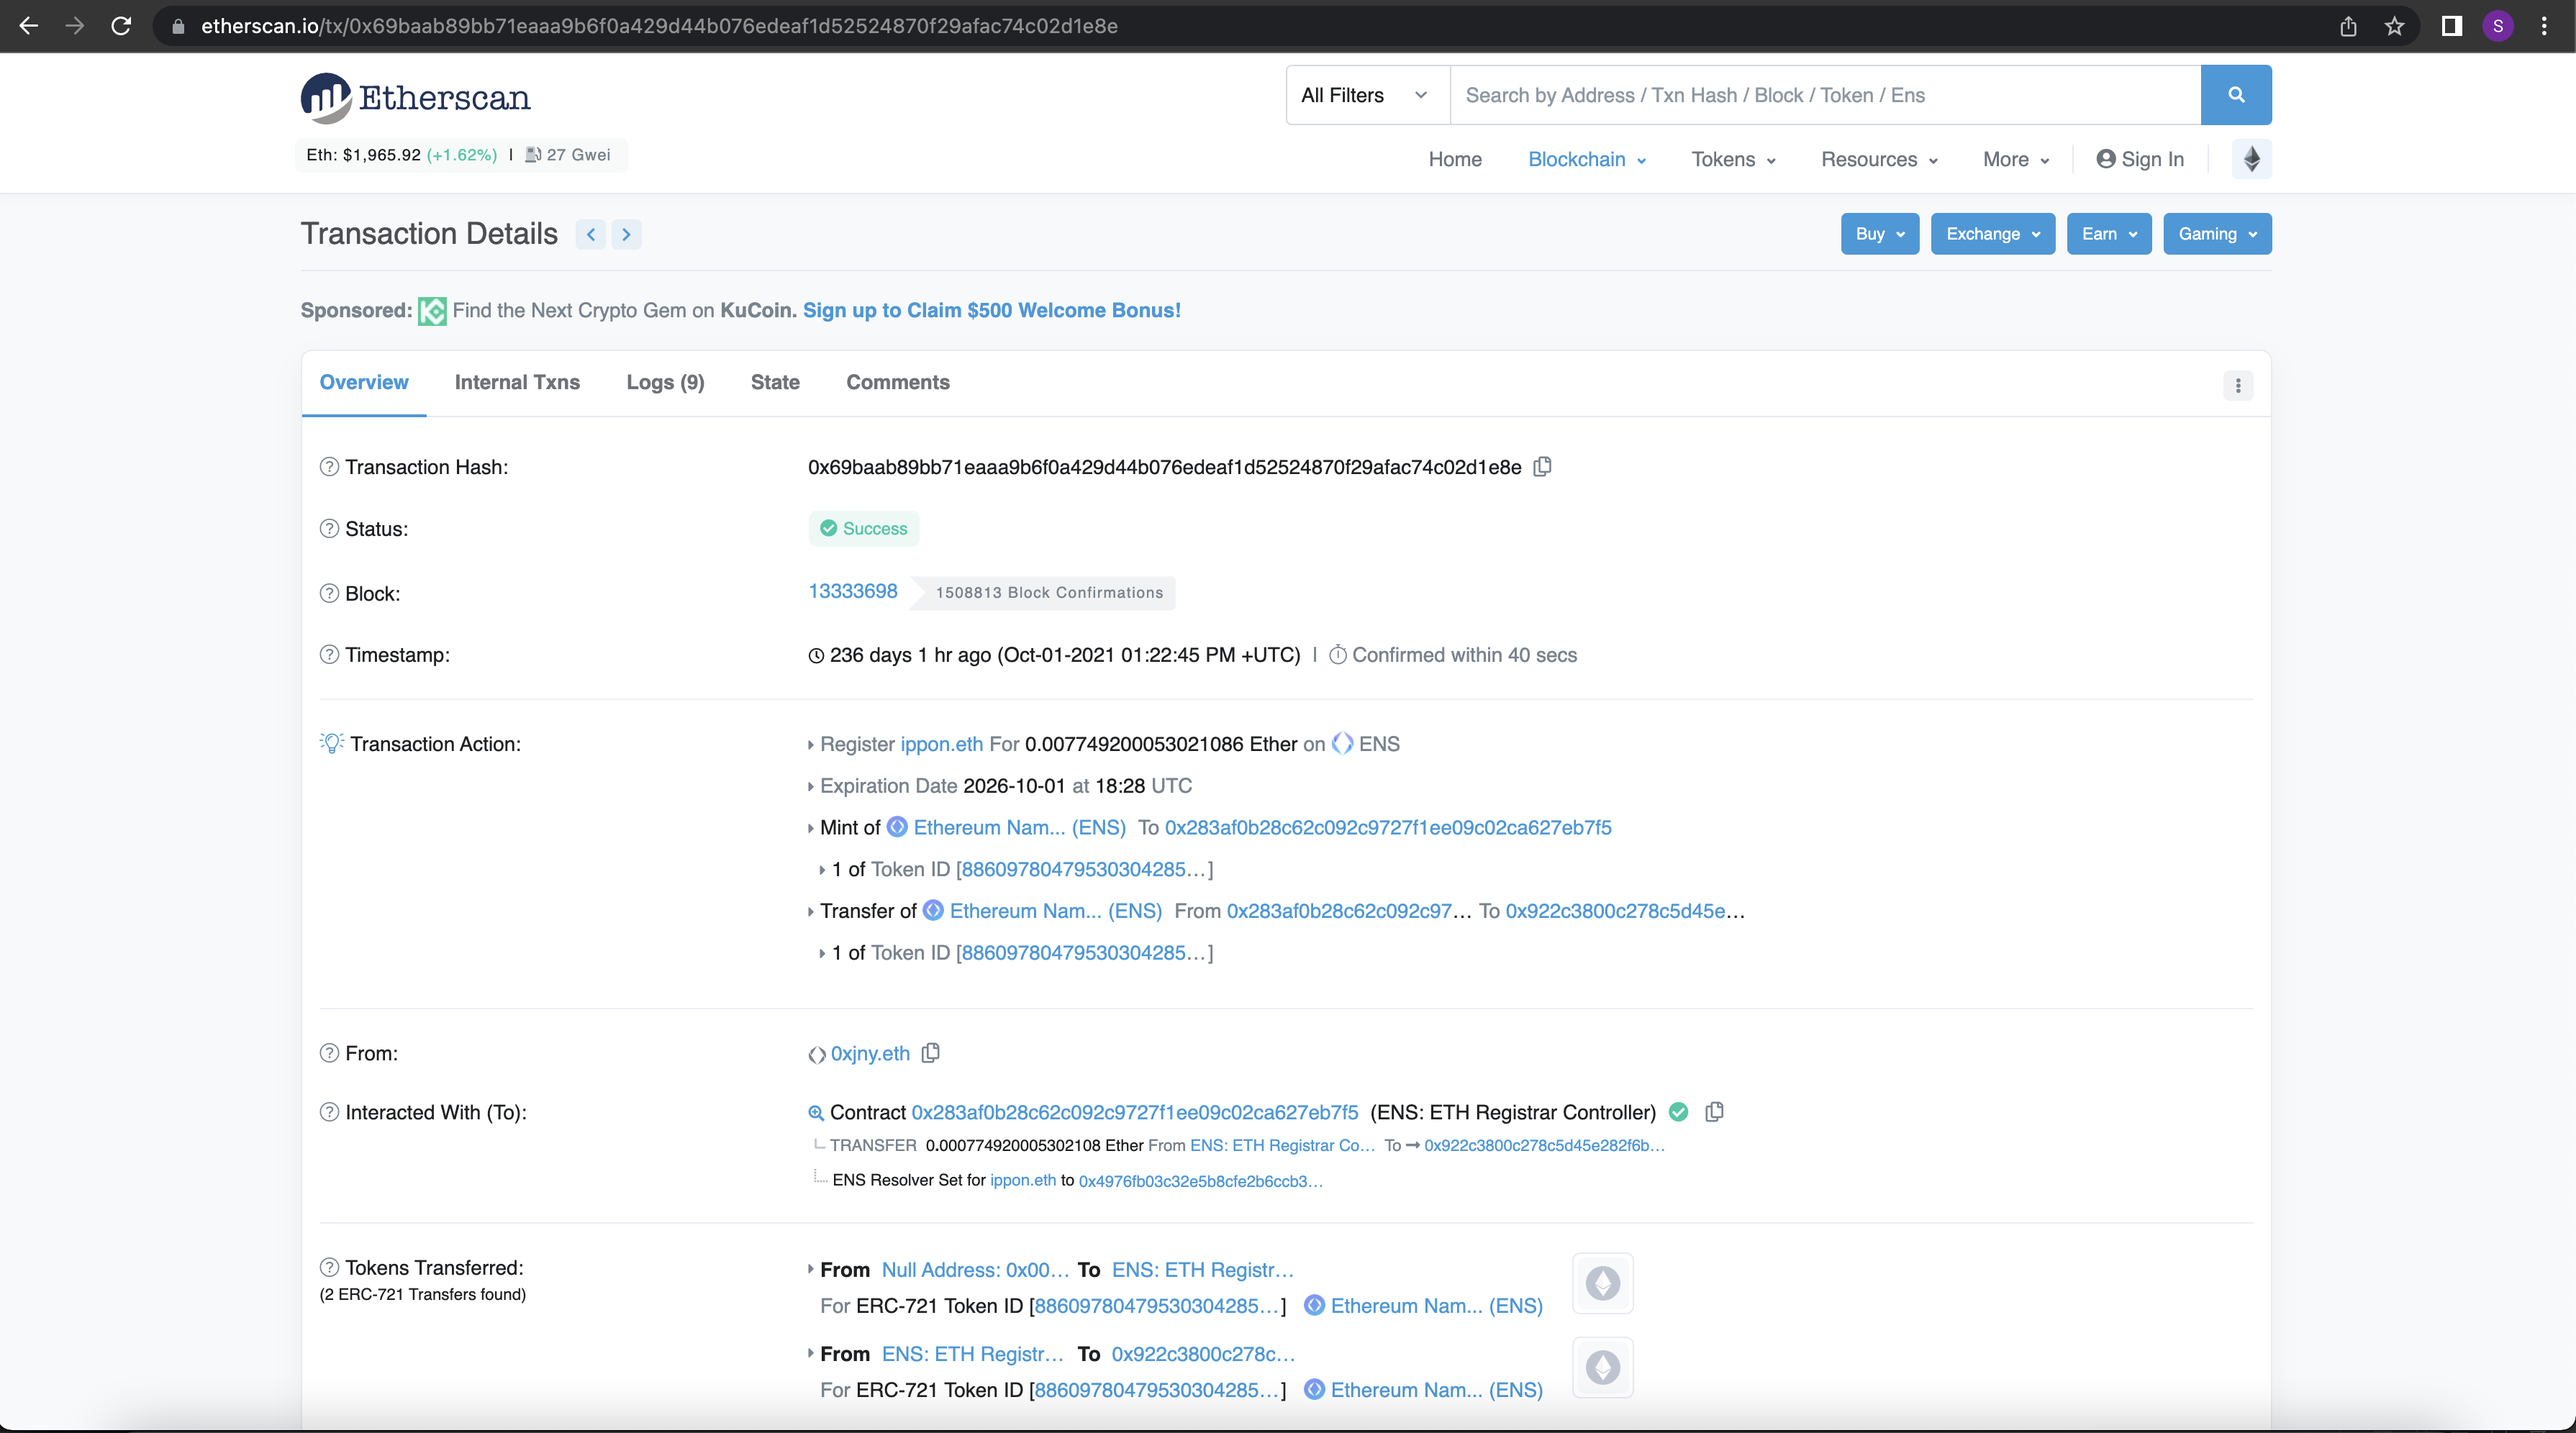
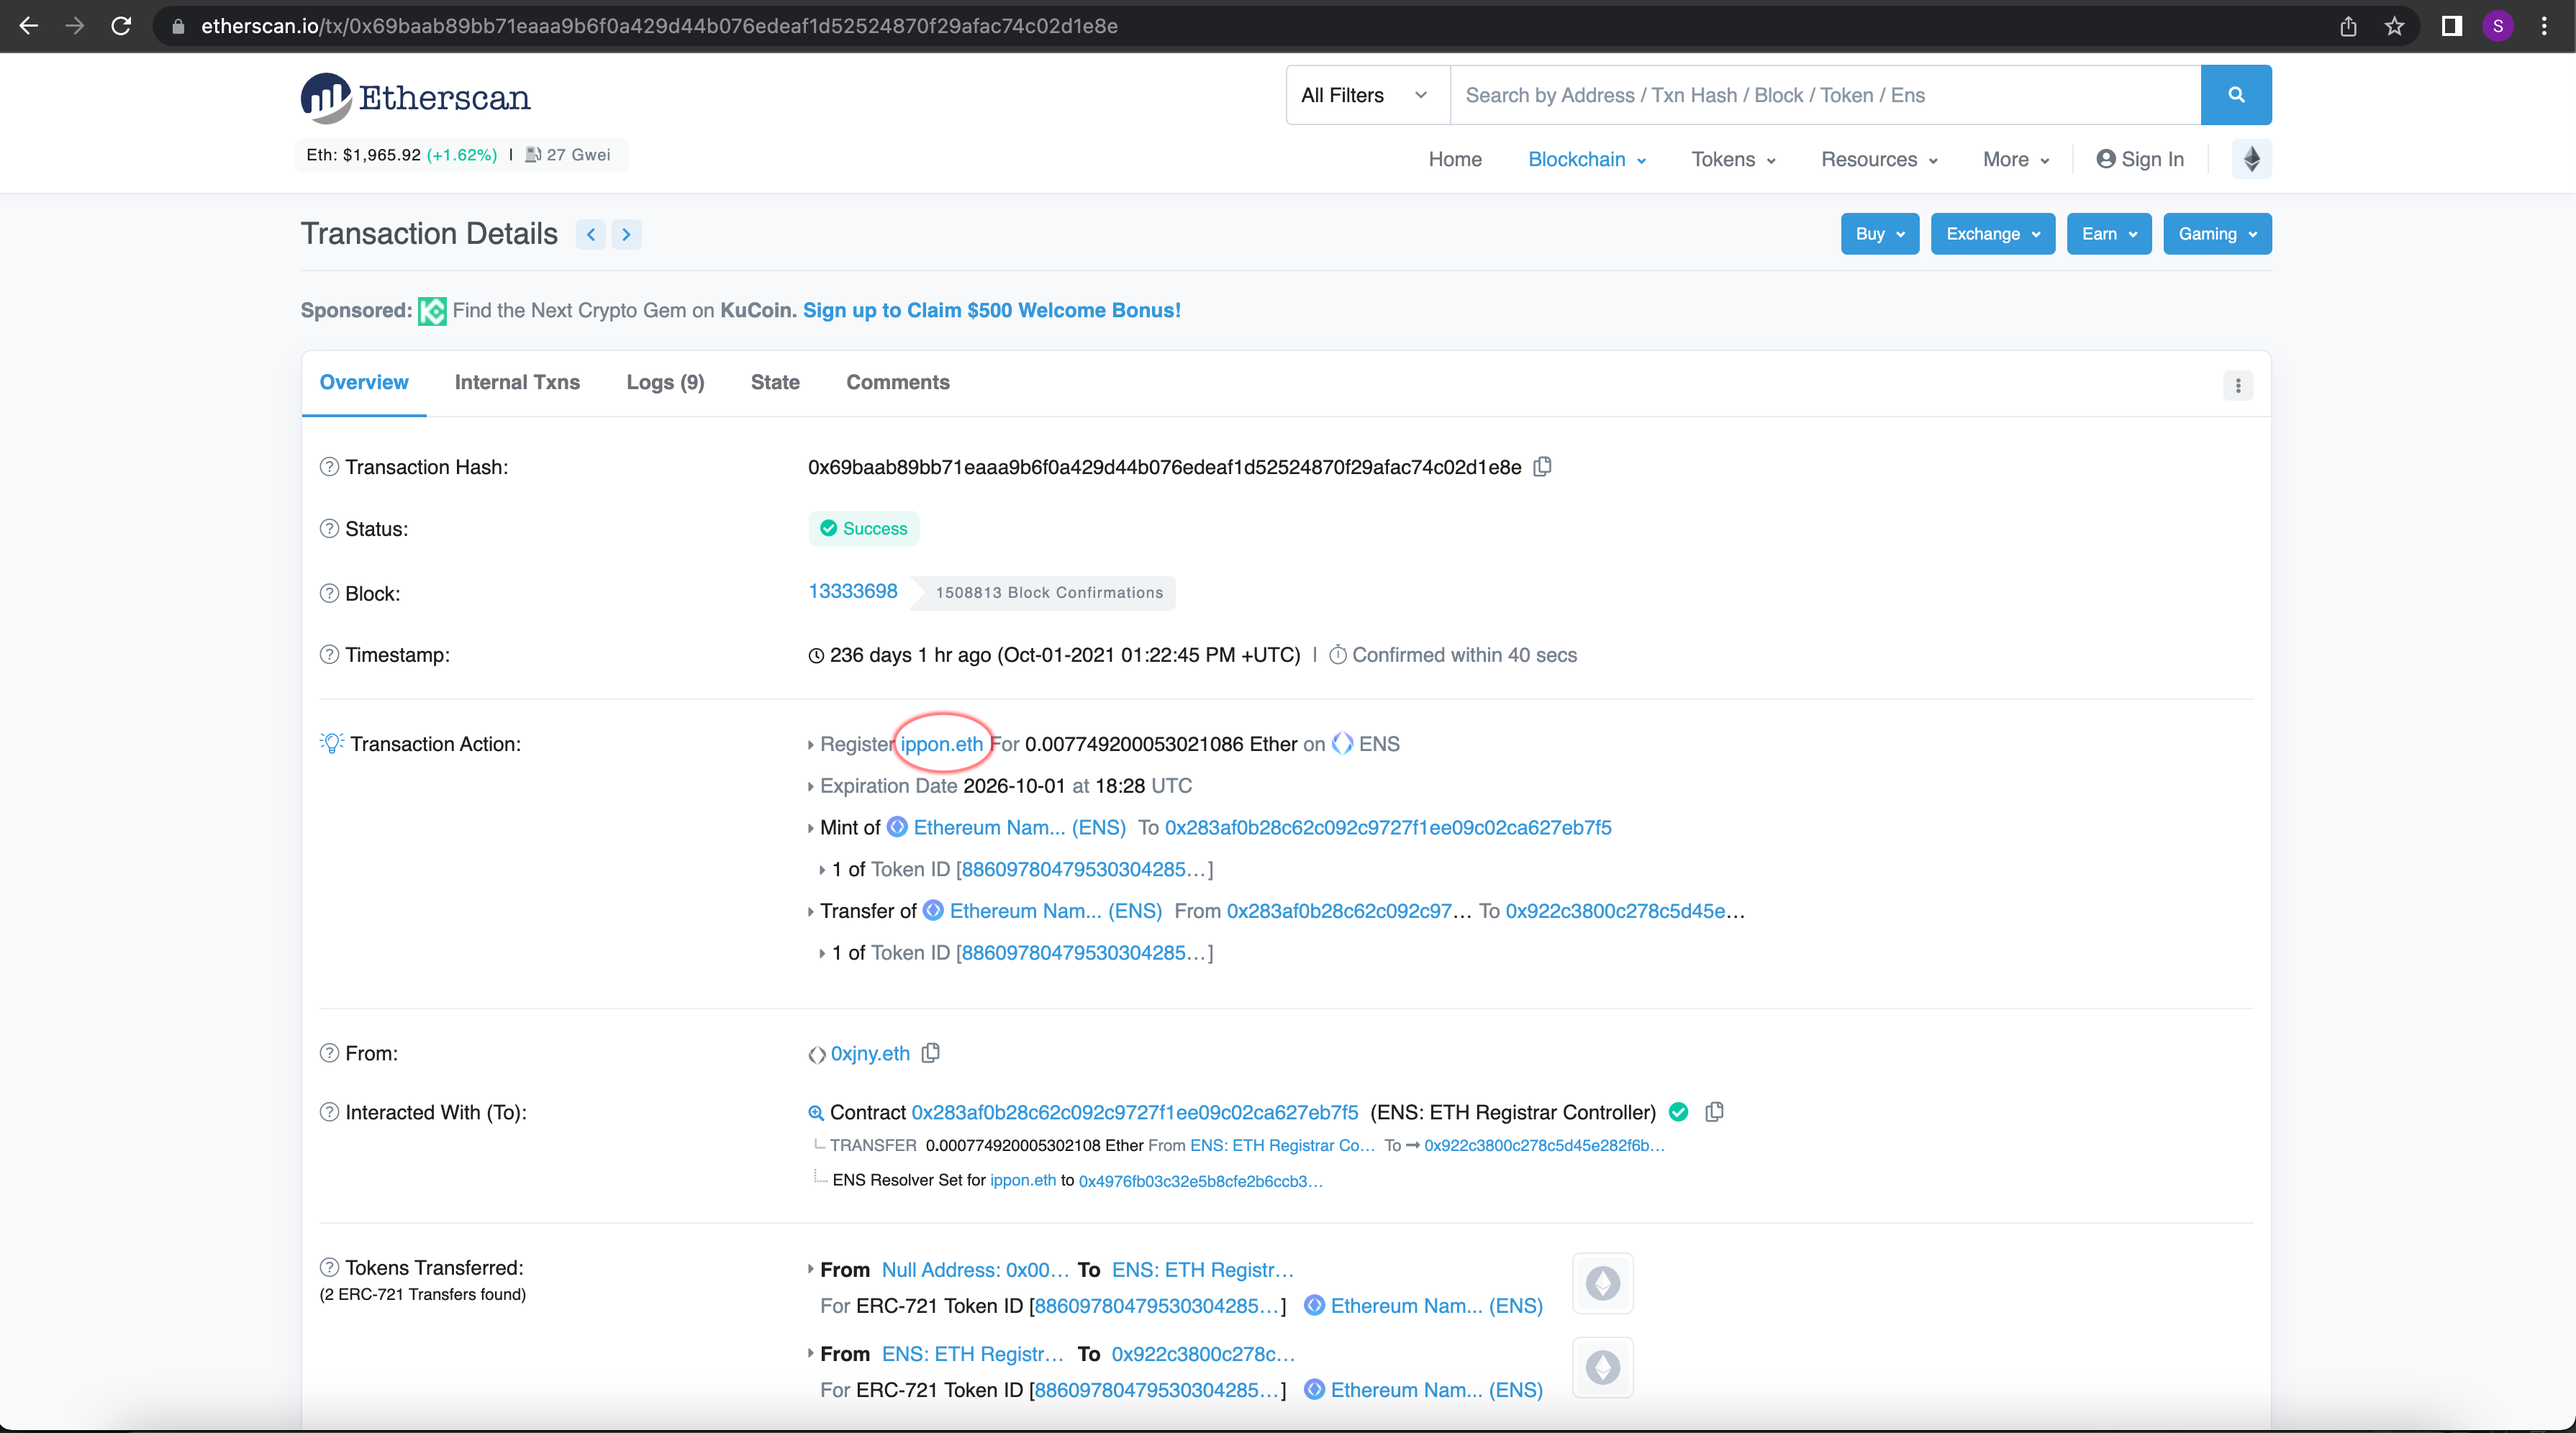
feat: registering a new ENS

diff --git a/posts/web3-domain-ens-guide.md b/posts/web3-domain-ens-guide.md
@@ -58,7 +58,7 @@ You can now attach the wallet to the ENS app using the browser extension.
 
 You can fund the wallet by buying ETH on MetaMask itself OR you can use an exchange like Coinbase, Kraken, Gemini or Binance (US) to buy the ETH there and then send it to your wallet's address.
 
-## Using ENS App
+## Exploring ENS App
 
 Link to --> [Ethereum Name Service App](https://app.ens.domains/)
 
@@ -88,3 +88,12 @@ Using Etherscan we can search the blockchain for the transactions belonging to t
 ![ippon.eth etherescan address](../images/2022/06/ippon.eth.etherscan.png)
 
 ![ippon.eth owner transactions](../images/2022/06/ippon.eth.etherscan.owner.png)
+
+![ippon.eth ENS transaction on Etherscan](../images/2022/06/ippon.eth.etherscan.transaction.png)
+We can observe a multitude of metadata regarding the ENS registration transaction for **ippon.eth**
+
+## Registering an ENS username
+
+To register your unique web3 domain/username you need to find an address that is still available and not registered to anyone else. Then you would need to have sufficient amount of ETH in your wallet to pay for ENS registration and Ethereum gas fees. The longer you wish to register a name for the more in ETH it is going to cost. Anything less than 5 characters is also more expensive. Here is an example for **ippontechnologies.eth**
+
+![ippontechnologies.eth ENS](../images/2022/06/ens.ippontechnologies.png)
